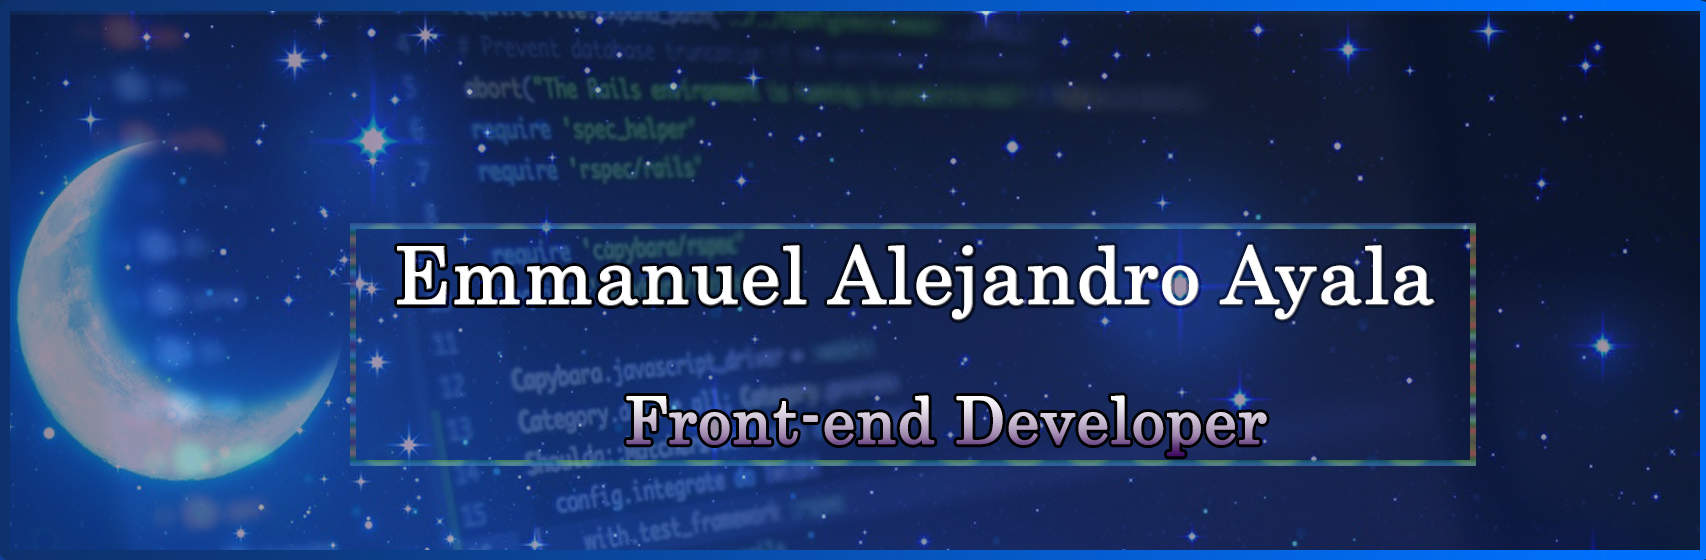
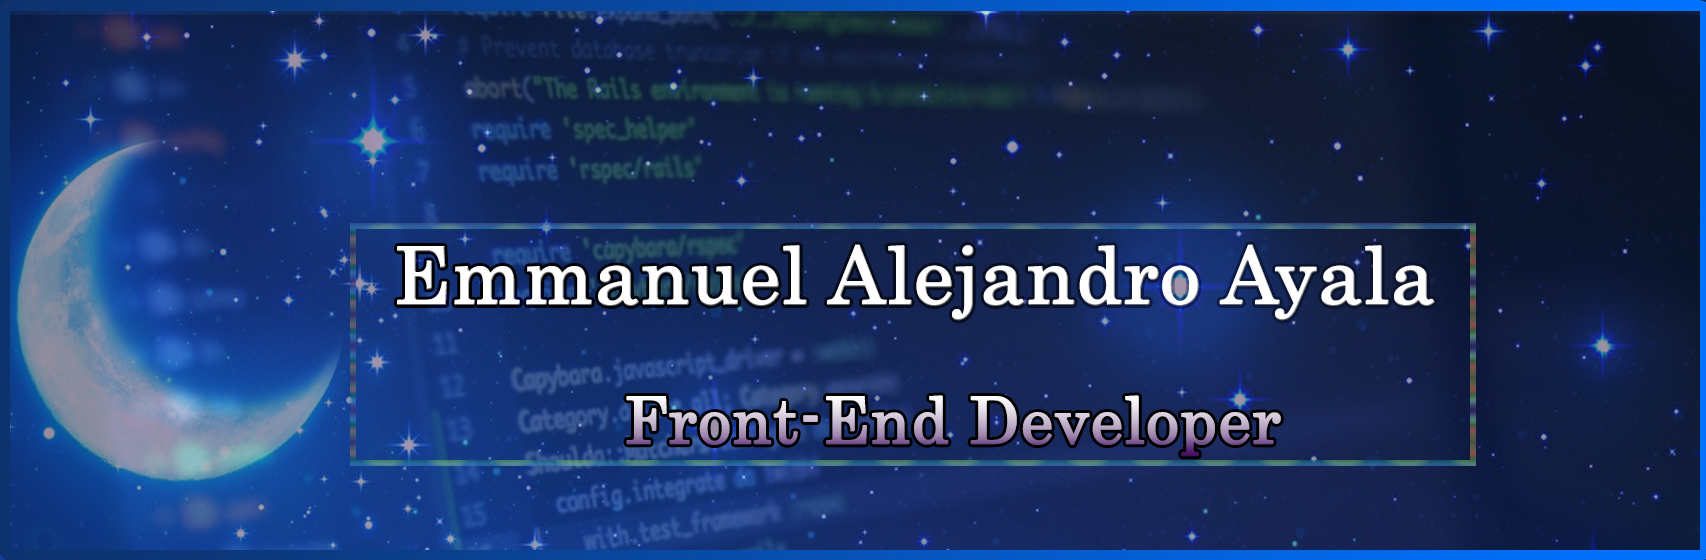
Presentation Image and Readme Updated

Changed region(s): [[0.466, 0.6982, 0.7767, 0.8196]]

diff --git a/README.md b/README.md
@@ -1,9 +1,9 @@
 ![header](images/Untitled.png)
 
-# **Fullstack Developer** :computer: :penguin:
+# **Front-End Developer** :computer: :penguin:
 ¡Hola! Me llamo Emmanuel, soy Front-End Developer (próximamente Full Stack) con un gusto intenso por diseñar GUI hechas a medida, de forma apasionada y que representen el 100% de la calidad de un Software.
 
-Tengo 21 años, acabo de graduarme y durante la pandemia pude mejorar mi formación en todas las distintas áreas de mi vida profesional además de la personal.
+Tengo 21 años, acabo de graduarme y durante la pandemia pude mejorar mi formación en todas las distintas áreas de mi vida personal y profesional.
 
 Amo la música, la ilustración, la producción de audio y las ediciones audiovisuales. Me gusta superarme a mí mismo siempre tratando de ser mi mejor versión, también me encanta el trabajo en equipo.
 
@@ -13,17 +13,17 @@ Me enamoré de la utilidad, el arte inimaginable y la magia que desprende la pro
 
 Abajo presento el último proyecto en el que estuve trabajando :point_down:
 
-## **Principal project** :rocket:
+## **Main project** :rocket:
 
--Desarrolle una aplicación de escritorio para un centro de jubilados completo (solicitado por mis abuelos) durante 2 meses en solitario.
+-Desarrollé una aplicación de escritorio para un centro de jubilados completo (solicitado por mis abuelos) durante 2 meses en solitario.
 
 ![1](images/1-Login.png)
 
-![2](images/2-MenúNormal.png)
+![2](images/2-Menu.png)
 
-![3](images/3-Gestión Socios.png)
+![3](images/3-Partners.png)
 
-![4](images/4-Gestión Pagos.png)
+![4](images/4-Payments.png)
 
 -[Link al Demo del Proyecto - Youtube](https://youtu.be/uRA9luuZngg)
 
